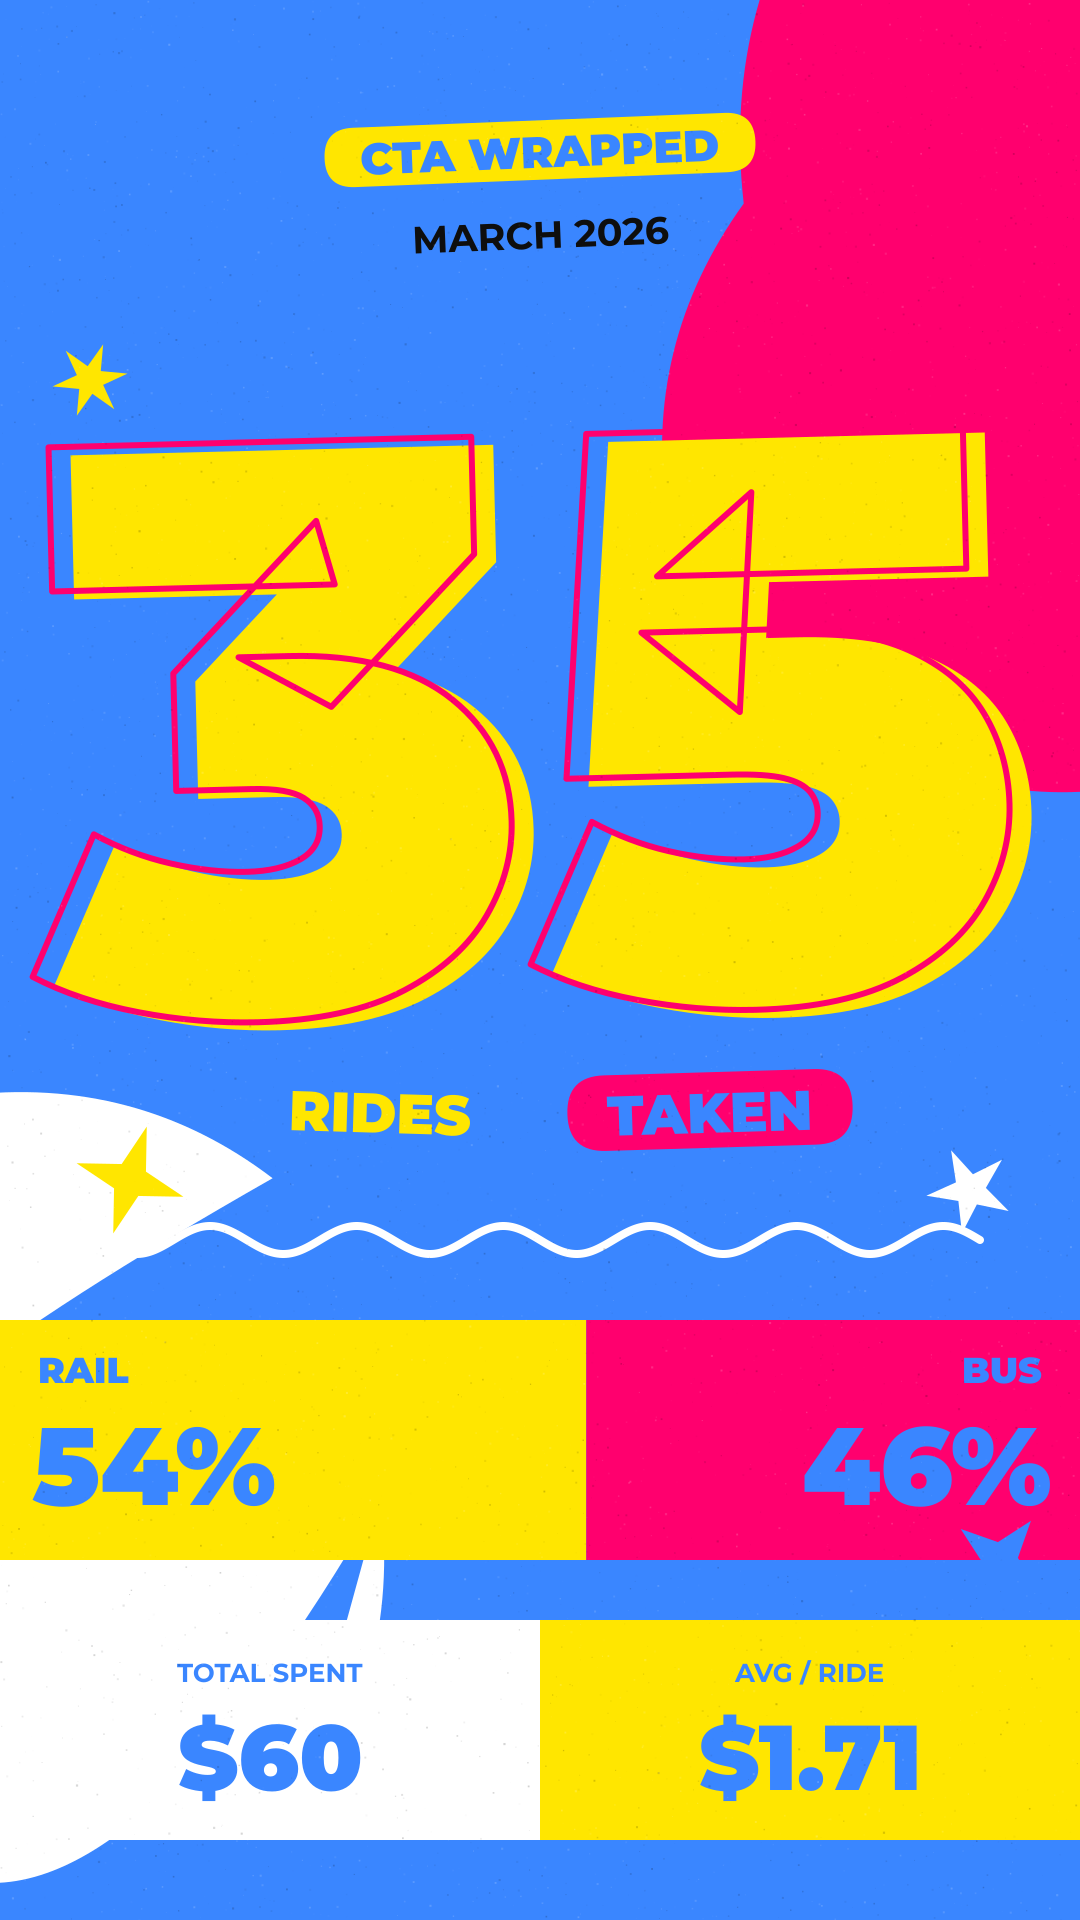
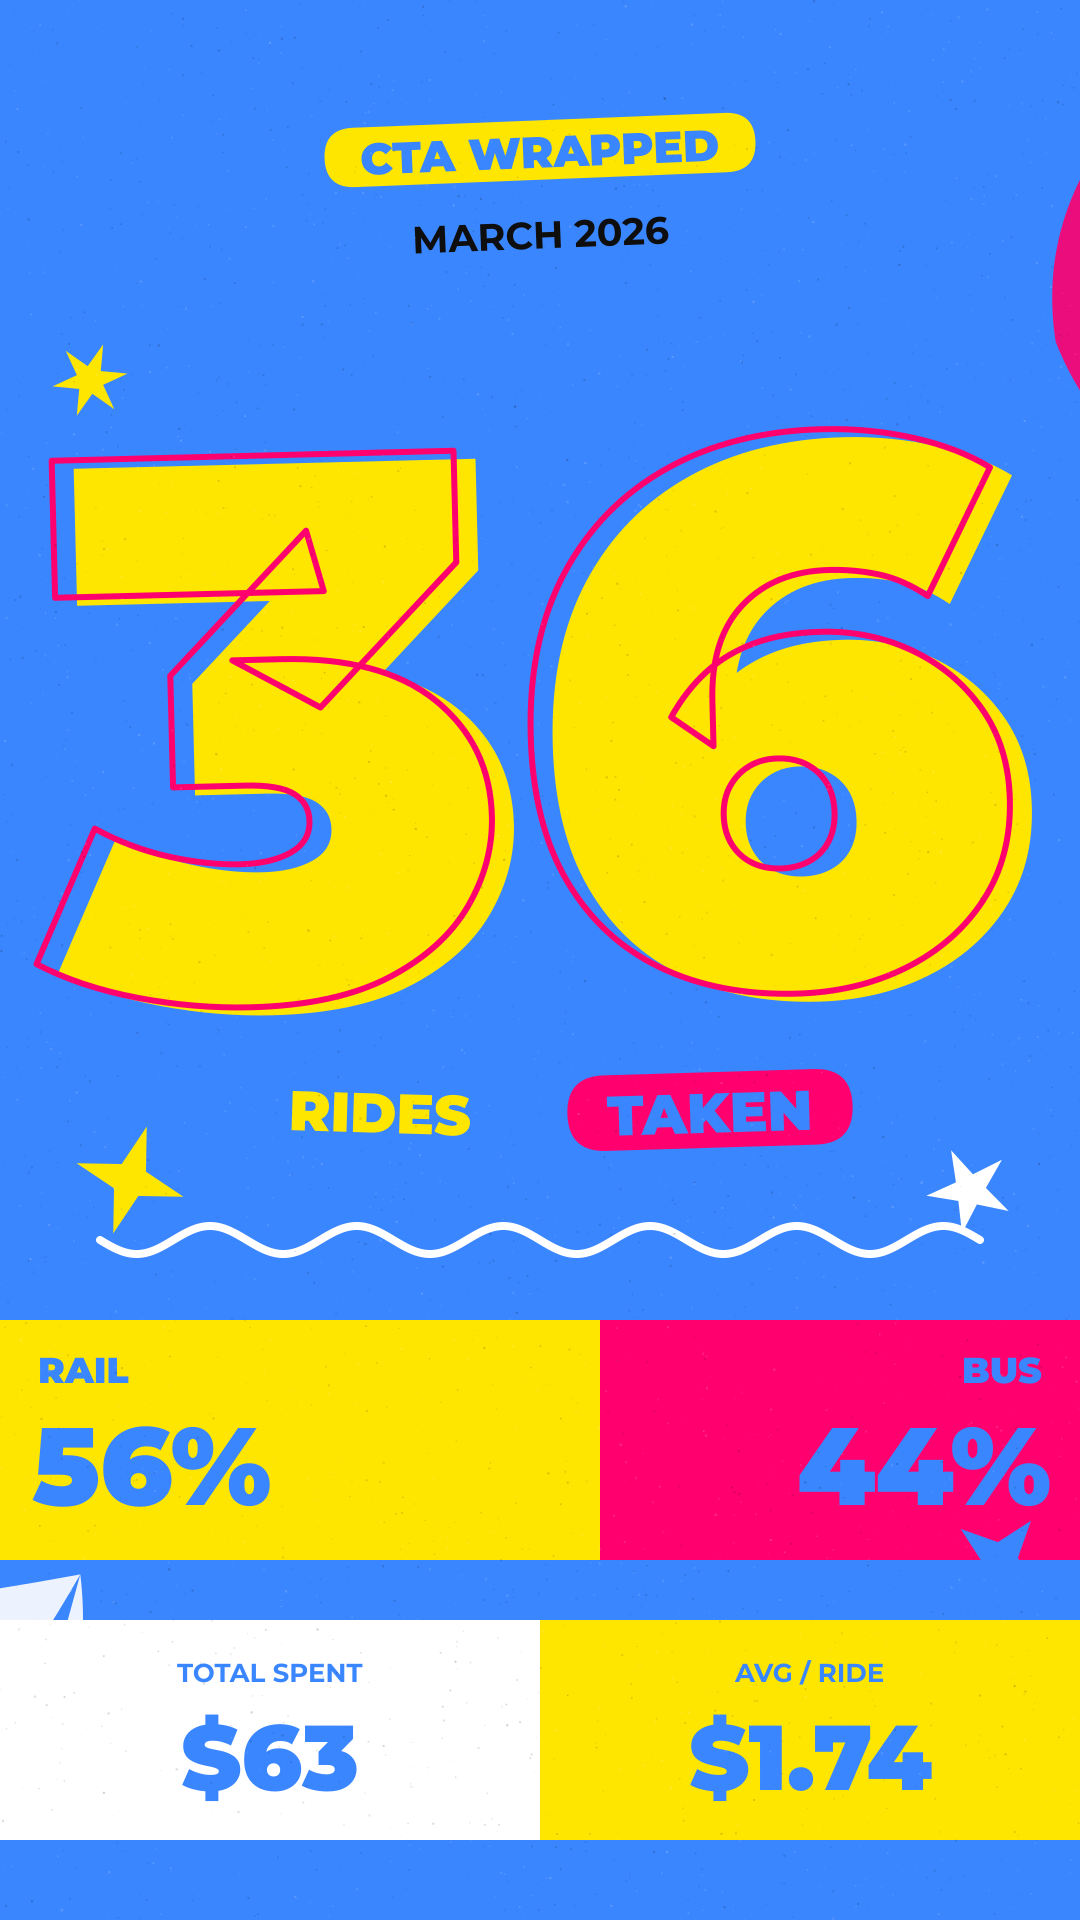
Improve readability of text in images

diff --git a/generate_wrapped.js b/generate_wrapped.js
@@ -292,7 +292,7 @@ const applyGrain = (ctx, count = 5500) => {
     }
 };
 
-/** Organic blob shape */
+/** Organic blob shape — kept as an off-canvas corner accent so it never lands under body copy */
 const drawBlob = (ctx, cx, cy, baseR, color, seed = 1) => {
     const rng = seededRng(seed);
     const points = 9;
@@ -302,6 +302,8 @@ const drawBlob = (ctx, cx, cy, baseR, color, seed = 1) => {
         angles.push((i / points) * Math.PI * 2);
         radii.push(baseR * (0.78 + rng() * 0.42));
     }
+    ctx.save();
+    ctx.globalAlpha = 0.9;
     ctx.fillStyle = color;
     ctx.beginPath();
     for (let i = 0; i <= points; i++) {
@@ -324,6 +326,7 @@ const drawBlob = (ctx, cx, cy, baseR, color, seed = 1) => {
     }
     ctx.closePath();
     ctx.fill();
+    ctx.restore();
 };
 
 /** Star/burst shape (sticker) */
@@ -441,8 +444,8 @@ const generateOverviewImage = async (stats, period) => {
     fillBg(ctx, palette.bg);
 
     // Backdrop blobs (off-canvas anchored)
-    drawBlob(ctx, W * 1.05, H * 0.18, 520, palette.secondary, hashSeed(period + 'b1'));
-    drawBlob(ctx, -W * 0.1, H * 0.78, 460, palette.accent, hashSeed(period + 'b2'));
+    drawBlob(ctx, W * 1.26, H * 0.12, 340, palette.secondary, hashSeed(period + 'b1'));
+    drawBlob(ctx, -W * 0.26, H * 0.82, 340, palette.accent, hashSeed(period + 'b2'));
 
     // Header tag
     drawTag(ctx, 'CTA WRAPPED', W / 2, 150, 44, '900', palette.primary, palette.bg, -0.04, 36);
@@ -530,8 +533,8 @@ const generateRailImage = async (stats, insights, period) => {
     const W = CONFIG.width, H = CONFIG.height;
 
     fillBg(ctx, palette.bg);
-    drawBlob(ctx, -W * 0.15, H * 0.22, 460, palette.secondary, hashSeed(period + 'rail-b1'));
-    drawBlob(ctx, W * 1.1, H * 0.7, 400, palette.accent, hashSeed(period + 'rail-b2'));
+    drawBlob(ctx, -W * 0.26, H * 0.13, 330, palette.secondary, hashSeed(period + 'rail-b1'));
+    drawBlob(ctx, W * 1.27, H * 0.14, 330, palette.accent, hashSeed(period + 'rail-b2'));
 
     drawTag(ctx, 'RAIL JOURNEY', W / 2, 130, 38, '900', palette.primary, palette.bg, -0.03, 32);
 
@@ -570,7 +573,8 @@ const generateRailImage = async (stats, insights, period) => {
     // Typographic stack: station names sized by rides
     const top = stats.rail.stationVisits.slice(0, 5);
     const maxCount = top[0]?.count || 1;
-    const colors = [palette.primary, palette.accent, palette.primary, palette.accent, palette.primary];
+    // Alternate primary/secondary only — accent is white or near-white in several palettes
+    const colors = [palette.primary, palette.secondary, palette.primary, palette.secondary, palette.primary];
     let yPos = 1080;
     top.forEach((s, i) => {
         const ratio = s.count / maxCount;
@@ -619,8 +623,8 @@ const generateBusImage = async (stats, insights, period) => {
     const W = CONFIG.width, H = CONFIG.height;
 
     fillBg(ctx, palette.bg);
-    drawBlob(ctx, -W * 0.15, H * 0.18, 380, palette.primary, hashSeed(period + 'bus-b1'));
-    drawBlob(ctx, W * 1.15, H * 0.32, 440, palette.secondary, hashSeed(period + 'bus-b2'));
+    drawBlob(ctx, -W * 0.26, H * 0.13, 330, palette.primary, hashSeed(period + 'bus-b1'));
+    drawBlob(ctx, W * 1.27, H * 0.36, 330, palette.secondary, hashSeed(period + 'bus-b2'));
 
     drawTag(ctx, 'BUS ROUTES', W / 2, 130, 38, '900', palette.accent, palette.bg, -0.03, 32);
 
@@ -707,8 +711,8 @@ const generateTimeOfDayImage = async (stats, period) => {
     const W = CONFIG.width, H = CONFIG.height;
 
     fillBg(ctx, palette.bg);
-    drawBlob(ctx, W * 1.05, -120, 380, palette.accent, hashSeed(period + 'time-b1'));
-    drawBlob(ctx, -120, H * 0.55, 360, palette.secondary, hashSeed(period + 'time-b2'));
+    drawBlob(ctx, W * 1.27, -170, 330, palette.accent, hashSeed(period + 'time-b1'));
+    drawBlob(ctx, -W * 0.27, H * 0.5, 320, palette.secondary, hashSeed(period + 'time-b2'));
 
     drawTag(ctx, 'WHEN YOU RIDE', W / 2, 130, 38, '900', palette.primary, palette.bg, -0.03, 32);
 
@@ -767,8 +771,8 @@ const generateDayOfWeekImage = async (stats, period) => {
     const W = CONFIG.width, H = CONFIG.height;
 
     fillBg(ctx, palette.bg);
-    drawBlob(ctx, -W * 0.1, H * 0.15, 420, palette.secondary, hashSeed(period + 'dow-b1'));
-    drawBlob(ctx, W * 1.05, H * 0.85, 380, palette.accent, hashSeed(period + 'dow-b2'));
+    drawBlob(ctx, -W * 0.26, H * 0.13, 330, palette.secondary, hashSeed(period + 'dow-b1'));
+    drawBlob(ctx, W * 1.27, H * 0.13, 330, palette.accent, hashSeed(period + 'dow-b2'));
 
     drawTag(ctx, 'YOUR WEEK', W / 2, 130, 38, '900', palette.primary, palette.bg, -0.03, 32);
 
@@ -850,8 +854,8 @@ const generatePersonalityImage = async (_stats, insights, period) => {
     const W = CONFIG.width, H = CONFIG.height;
 
     fillBg(ctx, palette.bg);
-    drawBlob(ctx, W * 1.0, H * 0.18, 480, palette.secondary, hashSeed(period + 'p-b1'));
-    drawBlob(ctx, -W * 0.12, H * 0.85, 440, palette.accent, hashSeed(period + 'p-b2'));
+    drawBlob(ctx, W * 1.27, H * 0.12, 340, palette.secondary, hashSeed(period + 'p-b1'));
+    drawBlob(ctx, -W * 0.26, H * 0.87, 340, palette.accent, hashSeed(period + 'p-b2'));
 
     drawTag(ctx, 'YOUR TRANSIT', W / 2, 130, 38, '900', palette.primary, palette.bg, -0.03, 32);
 
